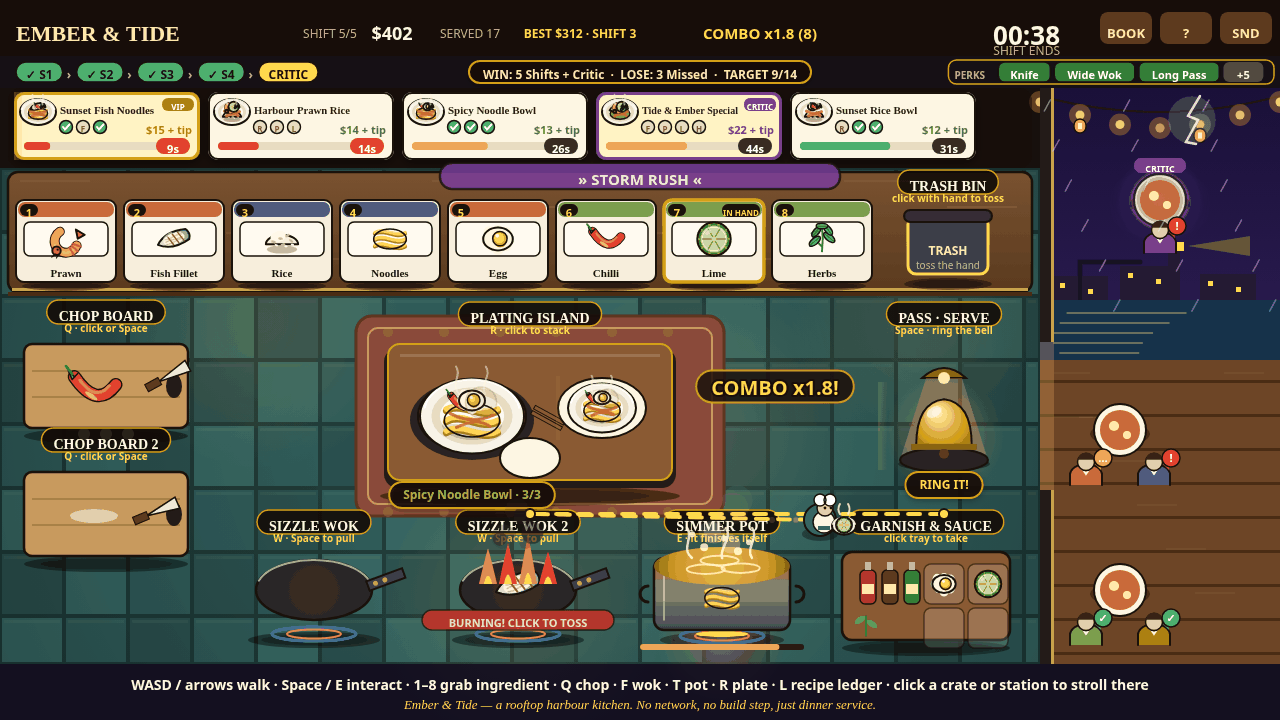
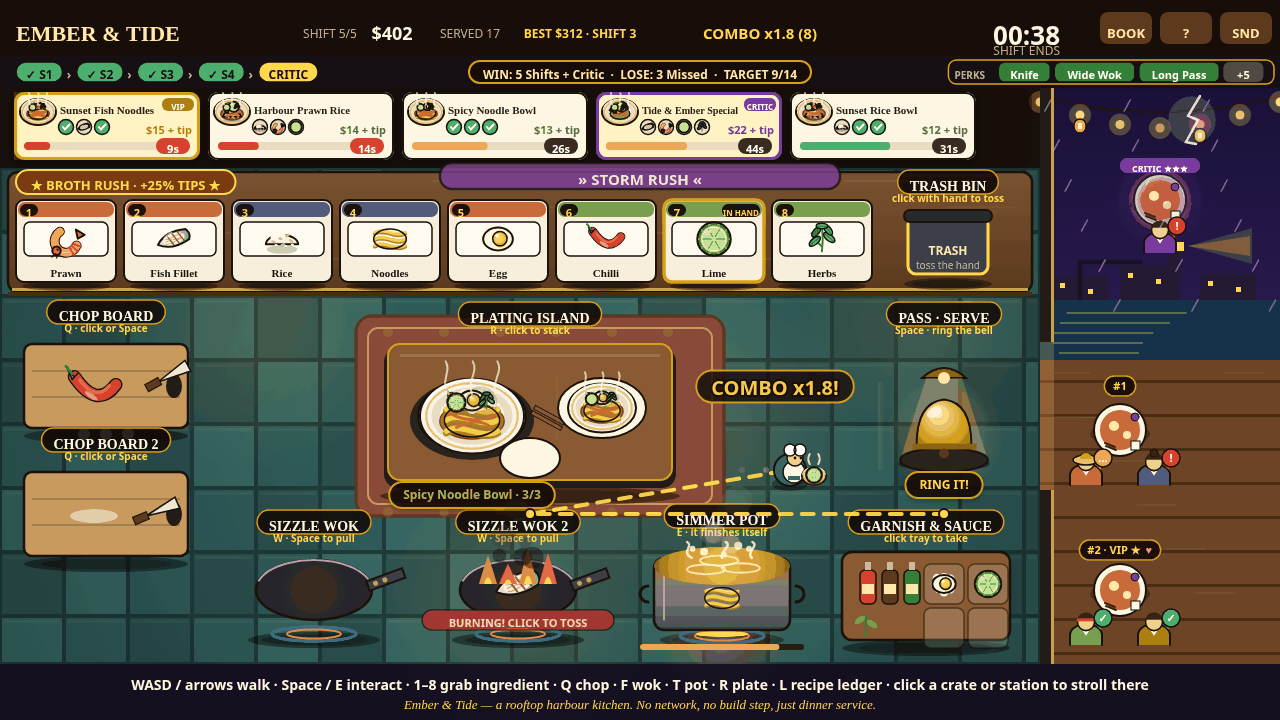
V4: judge fixes — pot tag + chef staging, lively terrace, sharper food, event badges

diff --git a/game/src/render/window.js b/game/src/render/window.js
@@ -1,18 +1,14 @@
 // Ember & Tide — render/window.js
-// The harbour rooftop terrace down the right edge (x 1040–1280): sunset
-// or storm sky, skyline, water, deck planks, string lanterns, diner
-// tables with mood badges and the Harbour Critic's purple table. The
-// kitchen wall runs down its left edge with a brass-trimmed pass
-// opening at the bell's height.
+// The harbour rooftop terrace (x 1040–1280): sky, skyline, lighthouse
+// beam, deck, lanterns, set diner tables with order tags, and the Critic.
 
 import { roundRectPath } from '../core/util.js';
 import { TERRACE } from './layout.js';
-import { drawDiner, drawTable } from './diners.js';
+import { drawDiner, drawTable, drawOrderTag } from './diners.js';
 
 export function drawTerrace(ctx, g, now) {
   const T = TERRACE;
   const storm = !!(g.rush && g.rush.name.includes('STORM'));
-  // Sky: sunset gradient, or deep violet-navy in a storm.
   const sky = ctx.createLinearGradient(0, T.y, 0, T.y + T.h);
   if (storm) {
     sky.addColorStop(0, '#1a1038'); sky.addColorStop(0.5, '#2c1d54'); sky.addColorStop(1, '#141024');
@@ -28,7 +24,6 @@ export function drawTerrace(ctx, g, now) {
     ctx.strokeStyle = '#ff8c42'; ctx.lineWidth = 3;
     ctx.beginPath(); ctx.arc(1196, 150, 32, 0, Math.PI * 2); ctx.stroke();
   }
-  // Distant skyline: warehouses, lighthouse, cranes.
   ctx.fillStyle = '#241a33';
   const sheds = [[1052, 24], [1120, 34], [1200, 26]];
   for (const [x, h] of sheds) ctx.fillRect(x, 300 - h, 56, h);
@@ -41,11 +36,17 @@ export function drawTerrace(ctx, g, now) {
   ctx.fillRect(1168, 250, 12, 50);
   ctx.fillStyle = '#ffd94d';
   ctx.fillRect(1164, 242, 20, 9);
+  // Lighthouse beam: bright core ray, wide soft wash, lit lamp, gold path on the water.
   ctx.fillStyle = 'rgba(255,217,77,0.3)';
   ctx.beginPath(); ctx.moveTo(1188, 246); ctx.lineTo(1250, 236); ctx.lineTo(1250, 256); ctx.closePath(); ctx.fill();
+  ctx.fillStyle = 'rgba(255,217,77,0.15)';
+  ctx.beginPath(); ctx.moveTo(1188, 246); ctx.lineTo(1252, 228); ctx.lineTo(1252, 264); ctx.closePath(); ctx.fill();
+  ctx.fillStyle = 'rgba(255,230,160,0.6)';
+  ctx.beginPath(); ctx.arc(1174, 246, 5, 0, Math.PI * 2); ctx.fill();
+  ctx.fillStyle = 'rgba(255,217,77,0.5)';
+  for (let i = 0; i < 4; i++) ctx.fillRect(1150 + i * 22, 344 + (i % 2) * 6, 14, 2);
   ctx.strokeStyle = '#1d1428'; ctx.lineWidth = 5;
   ctx.beginPath(); ctx.moveTo(1080, 300); ctx.lineTo(1080, 262); ctx.lineTo(1140, 262); ctx.stroke();
-  // Water strip with sunset reflections.
   ctx.fillStyle = '#16324a';
   ctx.fillRect(T.x, 300, T.w, 60);
   ctx.fillStyle = 'rgba(255,217,77,0.34)';
@@ -53,14 +54,12 @@ export function drawTerrace(ctx, g, now) {
     const y = 312 + i * 10;
     ctx.fillRect(1060 + Math.sin(now * 0.7 + i) * 8, y, 120 - i * 10, 2);
   }
-  // Deck planks below the waterline.
   ctx.fillStyle = '#6d4526';
   ctx.fillRect(T.x, 360, T.w, T.h - 272);
   ctx.fillStyle = '#4a2c14';
   for (let y = 380; y < T.y + T.h; y += 34) ctx.fillRect(T.x, y, T.w, 3);
   ctx.fillStyle = 'rgba(255,220,160,0.06)';
   for (let i = 0; i < 8; i++) ctx.fillRect(T.x + 10 + (i * 29) % 200, 372 + (i % 6) * 44, 40, 2);
-  // String lanterns swagged across the terrace.
   ctx.strokeStyle = 'rgba(40,20,10,0.85)';
   ctx.lineWidth = 2;
   ctx.beginPath(); ctx.moveTo(T.x, 96); ctx.quadraticCurveTo(1160, 128, 1280, 96); ctx.stroke();
@@ -82,14 +81,16 @@ export function drawTerrace(ctx, g, now) {
       ctx.fillRect(x - 2, y + 14, 4, 6);
     }
   }
-  // Diner tables with mood badges.
+  // Diner tables: set tables, varied hats/hair, an order tag over each.
+  drawOrderTag(ctx, 1120, 376, '#1', 'waiting');
   drawTable(ctx, 1120, 430);
-  drawDiner(ctx, 1086, 470, '#c96a3a', g.tickets.length ? 'waiting' : 'happy');
-  drawDiner(ctx, 1154, 470, '#4a5a8a', g.tickets.length ? 'impatient' : 'happy');
+  drawDiner(ctx, 1086, 470, '#c96a3a', g.tickets.length ? 'waiting' : 'happy', 'straw');
+  drawDiner(ctx, 1154, 470, '#4a5a8a', g.tickets.length ? 'impatient' : 'happy', 'bun');
+  drawOrderTag(ctx, 1120, 540, '#2 · VIP ★', 'happy');
   drawTable(ctx, 1120, 590);
-  drawDiner(ctx, 1086, 630, '#7a9e4a', 'happy');
+  drawDiner(ctx, 1086, 630, '#7a9e4a', 'happy', 'band');
   drawDiner(ctx, 1154, 630, '#b8860b', 'happy');
-  // The Harbour Critic's table: purple glow, CRITIC pill.
+  // Critic's table: purple glow when the critic ticket is live.
   const criticHere = g.tickets.some((t) => t.critic);
   ctx.save();
   if (criticHere) {
@@ -100,13 +101,12 @@ export function drawTerrace(ctx, g, now) {
   ctx.restore();
   drawDiner(ctx, 1160, 238, '#7a3b9e', criticHere ? 'impatient' : 'happy');
   ctx.fillStyle = '#7a3b9e';
-  roundRectPath(ctx, 1134, 158, 52, 15, 7); ctx.fill();
+  roundRectPath(ctx, 1120, 158, 80, 15, 7); ctx.fill();
   ctx.fillStyle = '#fff';
   ctx.font = 'bold 9px system-ui, sans-serif';
   ctx.textAlign = 'center';
-  ctx.fillText('CRITIC', 1160, 169);
-  // Kitchen wall down the terrace's left edge, with the brass-trimmed
-  // pass opening at the bell's height.
+  ctx.fillText('CRITIC ★★★', 1160, 169);
+  // Kitchen wall down the terrace's left edge, brass-trimmed pass opening.
   ctx.fillStyle = '#231b18';
   ctx.fillRect(T.x, T.y, 14, 254);
   ctx.fillRect(T.x, 490, 14, T.h - 402);

diff --git a/game/src/render/diners.js b/game/src/render/diners.js
@@ -14,7 +14,7 @@ const MOODS = {
   waiting: { color: '#f2a54a', glyph: '…' },
 };
 
-export function drawDiner(ctx, x, y, shirt, mood) {
+export function drawDiner(ctx, x, y, shirt, mood, style) {
   const m = MOODS[mood] || MOODS.waiting;
   // Shoulders: broad rounded dome in the shirt colour, ink outline,
   // with a small cream collar V at the throat.
@@ -35,6 +35,23 @@ export function drawDiner(ctx, x, y, shirt, mood) {
   ctx.beginPath(); ctx.arc(x, y - 8, 8.5, 0, Math.PI * 2); ctx.stroke();
   ctx.fillStyle = '#3a2418';
   ctx.beginPath(); ctx.arc(x, y - 9, 8.5, Math.PI * 1.05, Math.PI * 1.95); ctx.fill();
+  // Hats and hair: straw brim, top bun, or a red band — diners differ.
+  if (style === 'straw') {
+    ctx.fillStyle = '#e8c96a';
+    ctx.beginPath(); ctx.ellipse(x, y - 10, 13, 5, 0, 0, Math.PI * 2); ctx.fill();
+    ctx.strokeStyle = '#1a120b'; ctx.lineWidth = 1.5;
+    ctx.beginPath(); ctx.ellipse(x, y - 10, 13, 5, 0, 0, Math.PI * 2); ctx.stroke();
+    ctx.fillStyle = '#d4a017';
+    ctx.beginPath(); ctx.arc(x, y - 11, 6, Math.PI, 0); ctx.fill();
+  } else if (style === 'bun') {
+    ctx.fillStyle = '#3a2418';
+    ctx.beginPath(); ctx.arc(x, y - 17, 4, 0, Math.PI * 2); ctx.fill();
+    ctx.strokeStyle = '#1a120b'; ctx.lineWidth = 1;
+    ctx.beginPath(); ctx.arc(x, y - 17, 4, 0, Math.PI * 2); ctx.stroke();
+  } else if (style === 'band') {
+    ctx.strokeStyle = '#e8442e'; ctx.lineWidth = 3;
+    ctx.beginPath(); ctx.moveTo(x - 8, y - 10); ctx.lineTo(x + 8, y - 10); ctx.stroke();
+  }
   // Mood bubble: round, to the side of the head so it never covers
   // the table above, with a bold white glyph and a tiny tail.
   const bx = x + 17, by = y - 12;
@@ -62,4 +79,37 @@ export function drawTable(ctx, x, y) {
   ctx.fillStyle = '#ffe6a8';
   ctx.beginPath(); ctx.arc(x - 6, y - 4, 5, 0, Math.PI * 2); ctx.fill();
   ctx.beginPath(); ctx.arc(x + 7, y + 5, 4, 0, Math.PI * 2); ctx.fill();
+  // The table is set: chopsticks, a folded napkin, a tiny soy dish.
+  ctx.strokeStyle = '#3a2418'; ctx.lineWidth = 2;
+  ctx.beginPath(); ctx.moveTo(x - 15, y + 13); ctx.lineTo(x - 5, y + 17); ctx.stroke();
+  ctx.beginPath(); ctx.moveTo(x - 14, y + 16); ctx.lineTo(x - 4, y + 20); ctx.stroke();
+  ctx.fillStyle = '#fdf6e3';
+  ctx.fillRect(x + 11, y + 11, 9, 9);
+  ctx.strokeStyle = '#1a120b'; ctx.lineWidth = 1;
+  ctx.strokeRect(x + 11, y + 11, 9, 9);
+  ctx.fillStyle = '#7a3b9e';
+  ctx.beginPath(); ctx.arc(x + 15, y - 13, 4, 0, Math.PI * 2); ctx.fill();
+  ctx.strokeStyle = '#1a120b'; ctx.lineWidth = 1;
+  ctx.beginPath(); ctx.arc(x + 15, y - 13, 4, 0, Math.PI * 2); ctx.stroke();
+}
+
+// Small order tag above a terrace table: number, VIP star or Critic
+// stars, with a heart when the table is happy.
+export function drawOrderTag(ctx, x, y, label, mood) {
+  ctx.save();
+  ctx.font = 'bold 11px system-ui, sans-serif';
+  const w = ctx.measureText(label).width + (mood === 'happy' ? 28 : 18);
+  ctx.fillStyle = 'rgba(18,10,6,0.88)';
+  roundRectPath(ctx, x - w / 2, y, w, 20, 10); ctx.fill();
+  ctx.strokeStyle = '#d4a017'; ctx.lineWidth = 1.5;
+  roundRectPath(ctx, x - w / 2, y, w, 20, 10); ctx.stroke();
+  ctx.fillStyle = '#ffd94d';
+  ctx.textAlign = 'center';
+  ctx.textBaseline = 'middle';
+  ctx.fillText(label, x - (mood === 'happy' ? 6 : 0), y + 11);
+  if (mood === 'happy') {
+    ctx.fillStyle = '#ff6b8a';
+    ctx.fillText('♥', x + w / 2 - 12, y + 11);
+  }
+  ctx.restore();
 }

diff --git a/game/src/render/foodDishes.js b/game/src/render/foodDishes.js
@@ -17,15 +17,15 @@ function toppingSpots(n) {
 }
 
 function steamWisps(ctx, r, now) {
-  ctx.strokeStyle = 'rgba(255,244,220,0.55)';
+  ctx.strokeStyle = 'rgba(255,244,220,0.7)';
   ctx.lineWidth = 2;
   ctx.lineCap = 'round';
-  for (let i = 0; i < 2; i++) {
-    const x = (i - 0.5) * r * 0.5;
+  for (let i = 0; i < 3; i++) {
+    const x = (i - 1) * r * 0.45;
     const sway = Math.sin((now || 0) * 1.4 + i * 2.2) * r * 0.06;
     ctx.beginPath();
     ctx.moveTo(x, -r * 0.42);
-    ctx.bezierCurveTo(x + sway - r * 0.12, -r * 0.62, x + sway + r * 0.12, -r * 0.78, x + sway, -r * 0.95);
+    ctx.bezierCurveTo(x + sway - r * 0.12, -r * 0.68, x + sway + r * 0.12, -r * 0.85, x + sway, -r * 1.05);
     ctx.stroke();
   }
 }
@@ -46,6 +46,14 @@ function drizzle(ctx, r) {
 }
 
 function drawBase(ctx, comps, r) {
+  if (comps.includes('noodle') || comps.includes('rice')) {
+    // Rich amber broth pool under the starch: contrast against the pale
+    // plate so the mound reads as food, not a white blob, at thumbnail size.
+    ctx.fillStyle = '#b4712e';
+    ctx.beginPath(); ctx.ellipse(0, r * 0.1, r * 0.62, r * 0.34, 0, 0, Math.PI * 2); ctx.fill();
+    ctx.strokeStyle = '#7a4a16'; ctx.lineWidth = 1.5;
+    ctx.beginPath(); ctx.ellipse(0, r * 0.1, r * 0.62, r * 0.34, 0, 0, Math.PI * 2); ctx.stroke();
+  }
   if (comps.includes('noodle')) {
     drawIngredientIcon(ctx, 'noodle', 0, r * 0.08, r * 0.62);
   } else if (comps.includes('rice')) {
@@ -72,8 +80,9 @@ export function drawDishPlate(ctx, dish, cx, cy, r, now) {
     const big = id === 'prawn' || id === 'fish' ? r * 0.4 : r * 0.32;
     drawIngredientIcon(ctx, id, spots[i][0] * r, spots[i][1] * r - r * 0.08, big);
   });
-  // A herb garnish on top, and heat rising off the dish.
+  // A herb garnish and a crisp lime wedge on top, and heat rising off it.
   drawIngredientIcon(ctx, 'herbs', r * 0.28, -r * 0.28, r * 0.22);
+  drawIngredientIcon(ctx, 'lime', -r * 0.3, -r * 0.26, r * 0.2);
   steamWisps(ctx, r, now);
   ctx.restore();
 }
@@ -103,6 +112,12 @@ export function drawPlateInProgress(ctx, items, total, cx, cy, r, now) {
       ctx.beginPath(); ctx.arc(x, y, r * 0.3, 0, Math.PI * 2); ctx.stroke();
     }
   }
-  if (items.length) steamWisps(ctx, r, now);
+  if (items.length) {
+    // Garnish + steam on a mid-assembly plate too, so the island reads
+    // as food in progress rather than loose icons.
+    drawIngredientIcon(ctx, 'herbs', r * 0.28, -r * 0.28, r * 0.22);
+    drawIngredientIcon(ctx, 'lime', -r * 0.3, -r * 0.26, r * 0.2);
+    steamWisps(ctx, r, now);
+  }
   ctx.restore();
 }

diff --git a/game/src/core/shots.js b/game/src/core/shots.js
@@ -50,16 +50,15 @@ export function setupShot(name) {
     g.chef = chef(300, 480, 'up', [{ x: 300, y: 502, t: 0.3 }, { x: 300, y: 524, t: 0.6 }]);
     g.upgrades = { knives: true, wok: true, pass: false, calm: false, bell: false, pot: false };
     g.relics = { ember: true, star: true };
-    // PERFECT float in the open floor corridor between island and bell:
-    // clear of the island, the bell, the dish label and the route line.
+    // PERFECT float: open floor corridor, clear of island/bell/labels.
     g.floats = [{ x: 775, y: 390, text: '+24 PERFECT!', color: '#ffd94d', t: 0.2 }];
     g.toast = null;
+    g.event = { name: 'WOK FLARE', bonus: '+50% SEAR' };
     g.shot = 'cover';
     return g;
   }
   if (name === 'prep') {
-    // Between-shift draft: the judge sees the upgrade + relic shop UI
-    // directly, over a live kitchen mid-prep.
+    // Between-shift draft: the shop UI over a live kitchen mid-prep.
     const g = base({ coins: 210, earned: 210, combo: 2, bestCombo: 5, served: 8, shift: 3, shiftServed: 6, shiftLeft: 0, time: 150 });
     g.mode = 'shop';
     g.shopChoices = ['knives', 'wok', 'pass'];
@@ -95,13 +94,14 @@ export function setupShot(name) {
     g.tray = ['egg', 'lime'];
     g.plate = { items: ['noodle', 'chilli', 'egg'], dishId: 'spicy-noodles' };
     g.hand = { kind: 'prepped', id: 'lime' };
-    g.chef = chef(820, 520, 'right', [{ x: 796, y: 520, t: 0.3 }, { x: 772, y: 520, t: 0.6 }]);
+    // Chef staged higher in the open lane: clears the GARNISH & SAUCE tag.
+    g.chef = chef(790, 470, 'right', [{ x: 766, y: 470, t: 0.3 }, { x: 742, y: 470, t: 0.6 }]);
     g.upgrades = { knives: true, wok: true, pass: true, calm: true, bell: true, pot: false };
     g.relics = { ember: true, lantern: true, star: true };
-    // COMBO float in the same open corridor: clear of the island, the
-    // bell, the wok/pot tags below and the chef's route line.
+    // COMBO float: same open corridor, clear of island/bell/tags.
     g.floats = [{ x: 775, y: 390, text: 'COMBO x1.8!', color: '#ffd94d', t: 0.1 }];
     g.toast = null;
+    g.event = { name: 'BROTH RUSH', bonus: '+25% TIPS' };
     g.shot = 'rush';
     return g;
   }

diff --git a/game/src/render/tickets.js b/game/src/render/tickets.js
@@ -3,8 +3,8 @@
 // each with dish art, step checkmarks for components already on the
 // plate, VIP / CRITIC badges and a bold patience bar with a countdown.
 
-import { INGREDIENTS } from '../data/recipes.js';
 import { drawDishPlate } from './foodDishes.js';
+import { drawIngredientIcon } from './foodArt.js';
 import { fmtCoins, roundRectPath, clamp } from '../core/util.js';
 import { drawShimmer } from './feel.js';
 
@@ -55,22 +55,20 @@ export function drawTicket(ctx, g, t, i, now) {
   ctx.font = 'bold 11px Georgia, serif';
   ctx.textAlign = 'left';
   ctx.fillText(t.dish.name, r.x + 46, r.y + 19, 96);
-  // Step pips: one per component, green tick once it is on the plate.
+  // Step pips: one per component — the real mini ingredient icon while
+  // it waits, a green tick once it is on the plate. Depth reads instantly.
   t.dish.comps.forEach((c, j) => {
-    const px = r.x + 52 + j * 17, py = r.y + 35;
+    const px = r.x + 52 + j * 18, py = r.y + 35;
     const done = g.plate.items.includes(c);
     ctx.fillStyle = done ? '#4caf6d' : '#e8dcc2';
-    ctx.beginPath(); ctx.arc(px, py, 6.5, 0, Math.PI * 2); ctx.fill();
+    ctx.beginPath(); ctx.arc(px, py, 7.5, 0, Math.PI * 2); ctx.fill();
     ctx.strokeStyle = '#1a120b'; ctx.lineWidth = 1.5;
-    ctx.beginPath(); ctx.arc(px, py, 6.5, 0, Math.PI * 2); ctx.stroke();
+    ctx.beginPath(); ctx.arc(px, py, 7.5, 0, Math.PI * 2); ctx.stroke();
     if (done) {
       ctx.strokeStyle = '#fff'; ctx.lineWidth = 2;
       ctx.beginPath(); ctx.moveTo(px - 3, py); ctx.lineTo(px - 1, py + 2.5); ctx.lineTo(px + 3.5, py - 2.5); ctx.stroke();
     } else {
-      ctx.fillStyle = '#7a5a34';
-      ctx.font = 'bold 8px system-ui, sans-serif';
-      ctx.textAlign = 'center';
-      ctx.fillText(INGREDIENTS[c].name[0], px, py + 3);
+      drawIngredientIcon(ctx, c, px, py, 6.5);
     }
   });
   ctx.fillStyle = critic ? '#7a3b9e' : t.vip ? '#b8860b' : '#5a7a3a';

diff --git a/game/src/render/stationsPot.js b/game/src/render/stationsPot.js
@@ -14,7 +14,10 @@ export function drawPotStation(ctx, g, now) {
   const r = POT_RECT;
   const cx = r.x + r.w / 2;
   const p = g.pot;
-  stationTag(ctx, cx, r.y, 'SIMMER POT', 'E · it finishes itself');
+  // Tag raised 6px and steam/bubbles capped below it: the key line now
+  // sits at r.y-7, steam tops out at r.y+2, bubbles at r.y+4 — the
+  // "E · it finishes itself" line never touches steam, bubbles or rim.
+  stationTag(ctx, cx, r.y - 6, 'SIMMER POT', 'E · it finishes itself');
   contactShadow(ctx, cx, r.y + 100, 62, 8);
   drawBurner(ctx, cx, r.y + 96, now, p.state === 'cooking');
   const grad = ctx.createLinearGradient(r.x, r.y + 18, r.x, r.y + 92);
@@ -36,12 +39,12 @@ export function drawPotStation(ctx, g, now) {
       const sway = Math.sin(now * 1.6 + i * 2.2) * 5;
       ctx.beginPath();
       ctx.moveTo(sx, r.y + 18);
-      ctx.bezierCurveTo(sx + sway - 7, r.y + 8, sx + sway + 7, r.y - 2, sx + sway, r.y - 12);
+      ctx.bezierCurveTo(sx + sway - 7, r.y + 12, sx + sway + 7, r.y + 6, sx + sway, r.y + 2);
       ctx.stroke();
     }
     for (let i = 0; i < 5; i++) {
       const bx = cx - 30 + i * 15 + Math.sin(now * 3 + i * 2) * 3;
-      const by = r.y + 16 - ((now * 14 + i * 9) % 22);
+      const by = r.y + 16 - ((now * 14 + i * 9) % 12);
       ctx.fillStyle = 'rgba(255,240,200,0.9)';
       ctx.beginPath(); ctx.arc(bx, by, 3 + (i % 2), 0, Math.PI * 2); ctx.fill();
     }

diff --git a/game/src/render/feel.js b/game/src/render/feel.js
@@ -81,7 +81,7 @@ export function drawBurnFlames(ctx, cx, y, now) {
   for (let i = 0; i < 4; i++) {
     const fx = cx - 30 + i * 20;
     const flick = Math.sin(now * 11 + i * 2.4) * 7;
-    const h = 34 + ((i * 13) % 18) + flick;
+    const h = 24 + ((i * 13) % 10) + flick;
     ctx.fillStyle = i % 2 ? '#ff5a2e' : '#ff8a3c';
     ctx.beginPath();
     ctx.moveTo(fx - 9, y);
@@ -95,7 +95,9 @@ export function drawBurnFlames(ctx, cx, y, now) {
     ctx.closePath(); ctx.fill();
   }
   for (let i = 0; i < 3; i++) {
-    const sy = y - 44 - ((now * 26 + i * 23) % 40);
+    // Smoke capped below the wok tag: it rises from the pan but never
+    // crosses the "W · Space to pull" sublabel above it.
+    const sy = y - 20 - ((now * 26 + i * 23) % 24);
     const sx = cx - 18 + i * 18 + Math.sin(now * 2 + i * 2) * 5;
     ctx.fillStyle = 'rgba(30,20,20,0.55)';
     ctx.beginPath(); ctx.arc(sx, sy, 7 + i * 2, 0, Math.PI * 2); ctx.fill();

diff --git a/game/src/render/canvas.js b/game/src/render/canvas.js
@@ -84,6 +84,23 @@ export function drawScene(ctx, g, view) {
     ctx.restore();
   }
 
+  // Kitchen event modifier badge: a second live modifier, in the open
+  // seam left of the rush banner — clear of tickets, crates and tags.
+  if (g.event) {
+    const t = '★ ' + g.event.name + ' · ' + g.event.bonus + ' ★';
+    ctx.save();
+    ctx.font = 'bold 13px system-ui, sans-serif';
+    const w = ctx.measureText(t).width + 30;
+    ctx.fillStyle = '#7a3b10';
+    roundRectPath(ctx, 16, 170, w, 24, 12); ctx.fill();
+    ctx.strokeStyle = '#ffd94d'; ctx.lineWidth = 2;
+    roundRectPath(ctx, 16, 170, w, 24, 12); ctx.stroke();
+    ctx.fillStyle = '#ffd94d';
+    ctx.textAlign = 'center';
+    ctx.fillText(t, 16 + w / 2, 186);
+    ctx.restore();
+  }
+
   drawTopBar(ctx, g);
   drawRoadmap(ctx, g, now);
 

diff --git a/game/src/render/plates.js b/game/src/render/plates.js
@@ -20,6 +20,10 @@ export function plateBase(ctx, r) {
   // so the food sits in the plate instead of floating on it.
   ctx.fillStyle = 'rgba(60,30,10,0.16)';
   ctx.beginPath(); ctx.ellipse(0, r * 0.16, r * 0.58, r * 0.3, 0, 0, Math.PI); ctx.fill();
+  // Thin gold rim ring: the plate edge reads at thumbnail size.
+  ctx.strokeStyle = 'rgba(212,160,23,0.55)';
+  ctx.lineWidth = 2;
+  ctx.beginPath(); ctx.ellipse(0, 0, r * 0.88, r * 0.63, 0, 0, Math.PI * 2); ctx.stroke();
 }
 
 // Shimmering broth for an idle simmer pot: illustrated, never a label.
